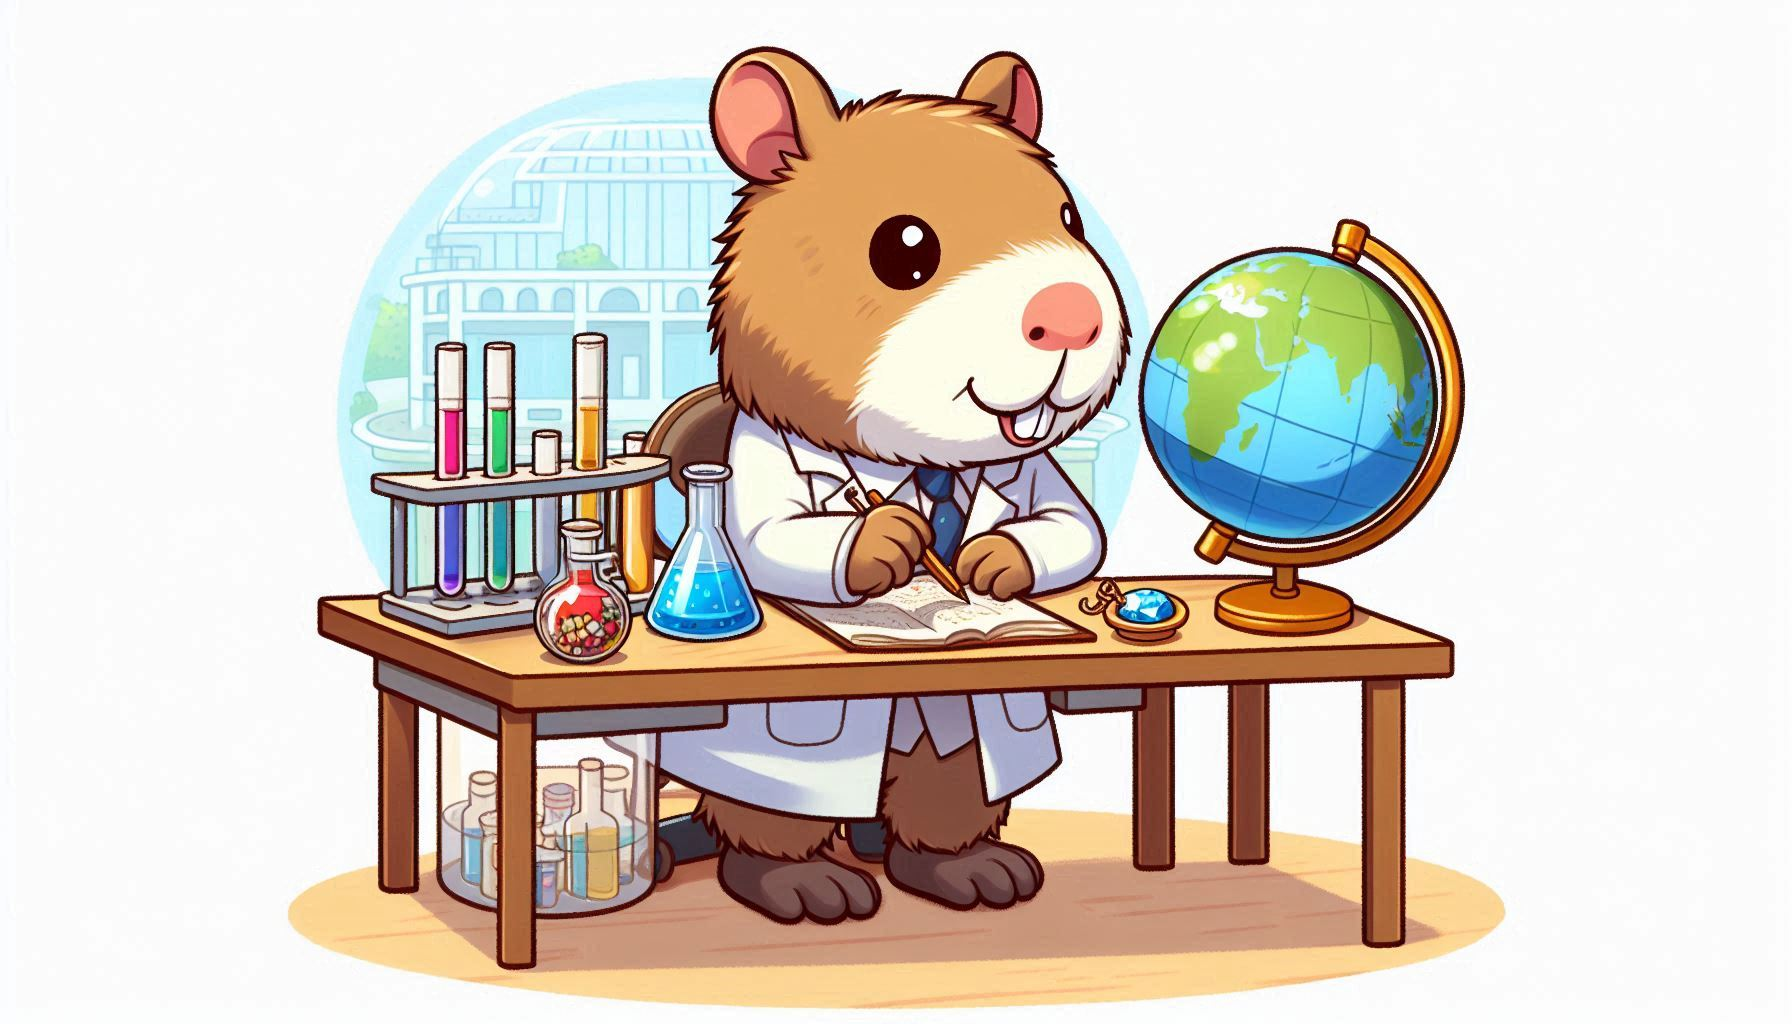
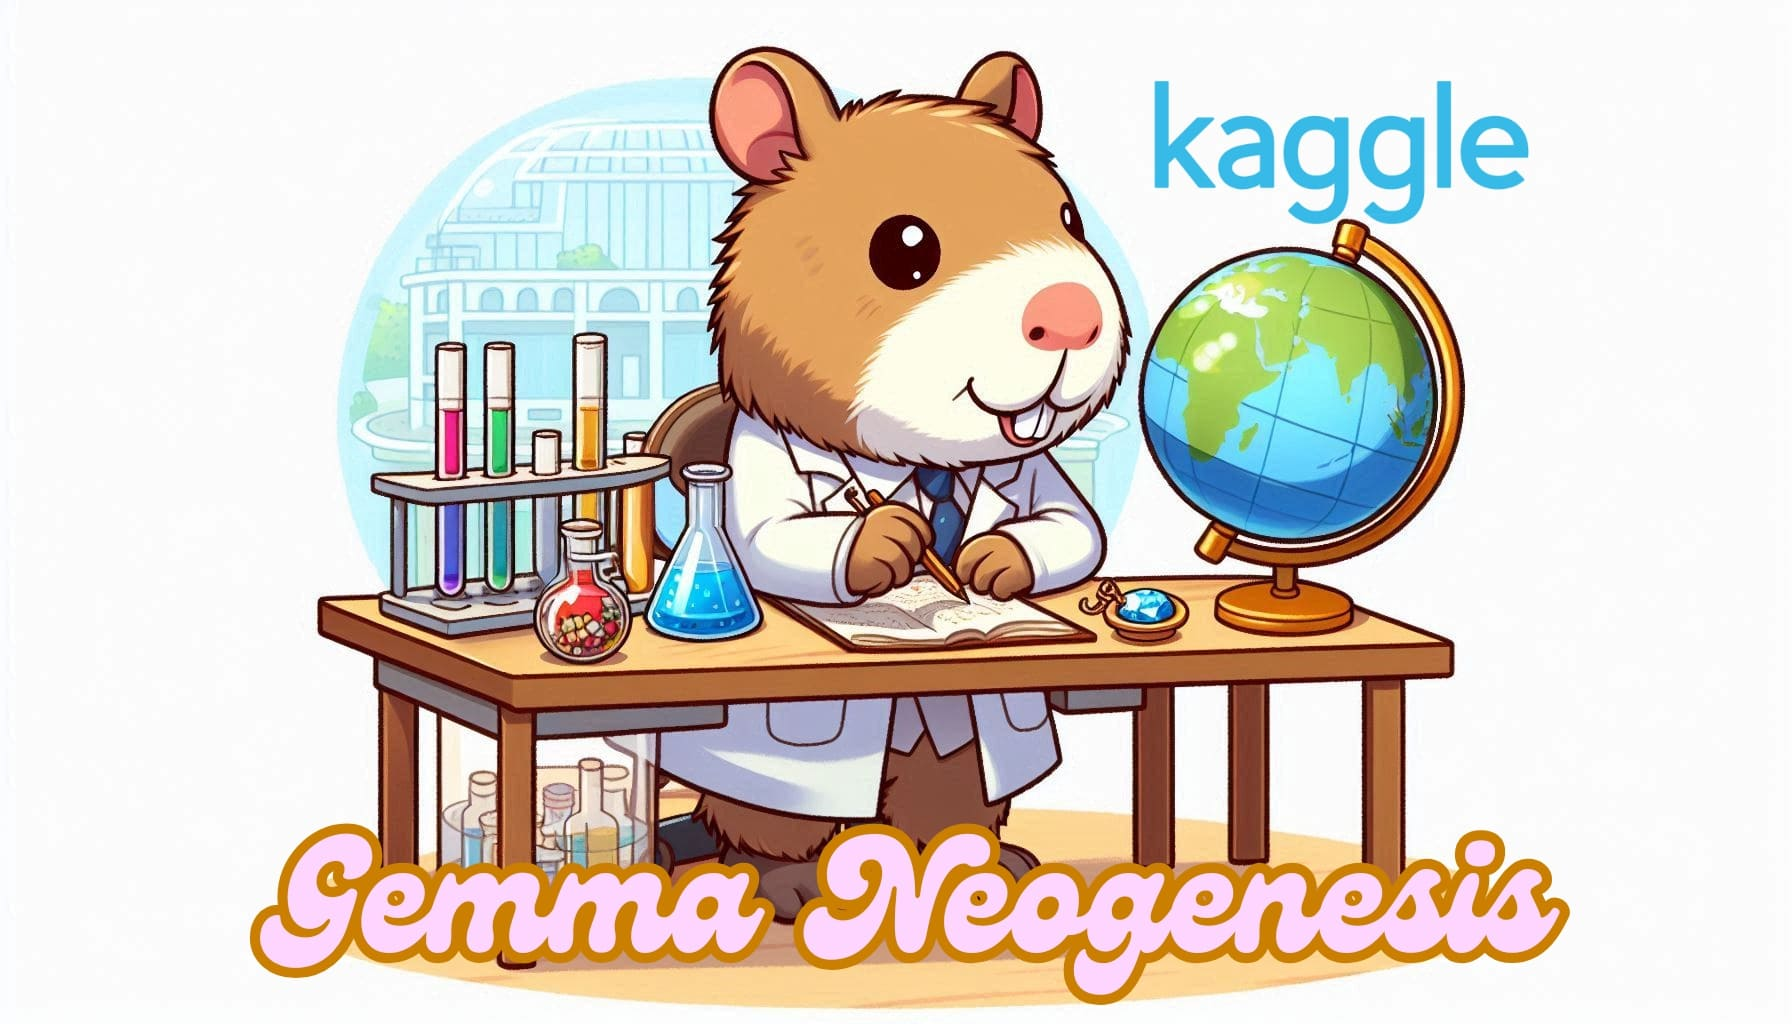
improved image

Changed region(s): [[0.125, 0.7812, 0.875, 1.0], [0.625, 0.0625, 0.875, 0.2188], [0.4688, 0.4688, 0.5, 0.5]]

diff --git a/README.md b/README.md
@@ -4,6 +4,8 @@
 Additional resources for Gemma Neogenesis, a [📓 Kaggle notebook for improving Gemma 2 for a specific language on a budget](https://www.kaggle.com/code/anakin87/post-training-gemma-for-italian-and-beyond).
 The notebook participates to the Kaggle competition: [Google - Unlock Global Communication with Gemma](https://www.kaggle.com/competitions/gemma-language-tuning).
 
+<img src="./images/neogenesis.jpg" alt="Gemma Neogenesis" width="800"/>
+
 ## Notebook intro
 The notebook demonstrates a case study on improving Gemma 2 2B's performance in Italian through Post-Training, combining Supervised Fine Tuning and Preference Tuning. The process uses both existing datasets and synthetic data generated specifically for this competition.
 While focused on Italian, the cost-effective methods demonstrated can inspire similar fine-tuning approaches for other languages.
